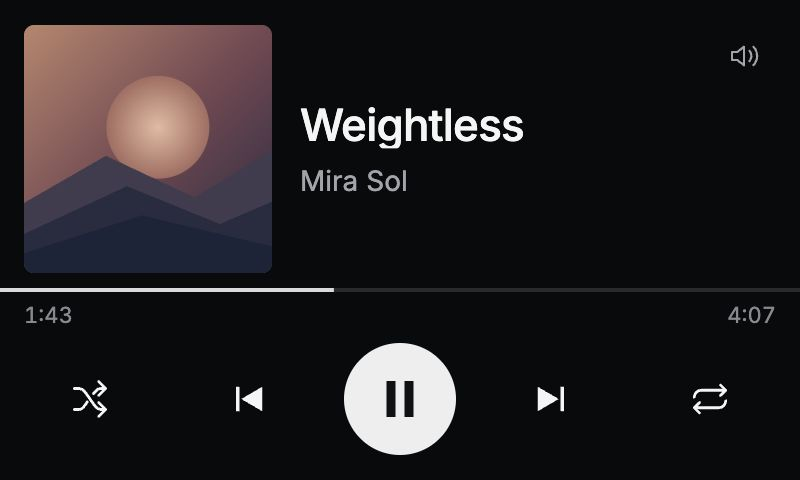
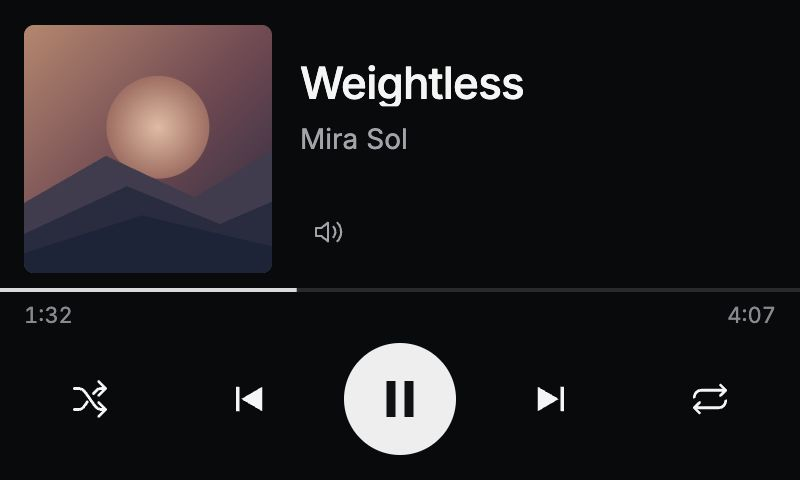
Move audio output control clear of the physical dial

diff --git a/public/index.html b/public/index.html
@@ -146,6 +146,15 @@
             </button>
           </div>
         </div>
+        <div id="idle" class="reconnecting">
+          <svg id="idleicon" viewBox="0 0 32 32" aria-hidden="true">
+            <path
+              d="M5 24a16 16 0 0 1 22 0M9 19a10 10 0 0 1 14 0M13 14a5 5 0 0 1 6 0"
+            />
+            <circle cx="16" cy="27" r="1" />
+          </svg>
+          <p id="idletext">Connecting</p>
+        </div>
         <button
           id="output-button"
           aria-label="Choose audio output"
@@ -157,15 +166,6 @@
             />
           </svg>
         </button>
-        <div id="idle" class="reconnecting">
-          <svg id="idleicon" viewBox="0 0 32 32" aria-hidden="true">
-            <path
-              d="M5 24a16 16 0 0 1 22 0M9 19a10 10 0 0 1 14 0M13 14a5 5 0 0 1 6 0"
-            />
-            <circle cx="16" cy="27" r="1" />
-          </svg>
-          <p id="idletext">Connecting</p>
-        </div>
       </section>
       <section id="weather" class="screen" aria-label="Weather" inert>
         <div id="weather-setup" hidden>

diff --git a/public/style.css b/public/style.css
@@ -773,8 +773,8 @@ input[type="range"]::-webkit-slider-thumb {
 
 #output-button {
   position: absolute;
-  top: 16px;
-  right: 16px;
+  top: 192px;
+  left: 288px;
   width: 80px;
   height: 80px;
   padding: 0;
@@ -785,12 +785,24 @@ input[type="range"]::-webkit-slider-thumb {
   width: 32px;
   height: 32px;
 }
+.details {
+  padding-bottom: 84px;
+}
 .details h1 {
-  padding-right: 80px;
+  -webkit-line-clamp: 2;
+}
+#idle:not([hidden]) + #output-button {
+  top: 16px;
+  left: 16px;
 }
 @media (max-width: 650px) {
-  .details h1 {
-    padding-right: 0;
+  .details {
+    padding-bottom: 0;
+  }
+  #output-button {
+    top: auto;
+    bottom: 16px;
+    left: 16px;
   }
 }
 

diff --git a/docs/screens.md b/docs/screens.md
@@ -10,4 +10,4 @@ The gallery covers music/video, paused playback, shuffle, repeat all/one, clock,
 
 ![Audio output picker](audio-output.jpg)
 
-The small speaker icon sits in the upper-right of Now Playing. Tap it to see the current output and choose another. Names stay in the picker; Now Playing stays minimal.
+The small speaker icon sits below the title and creator, beside the artwork and clear of the physical dial. Tap it to see the current output and choose another. Names stay in the picker; Now Playing stays minimal.
